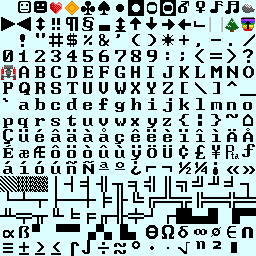
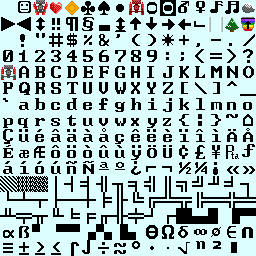
added sprites for flying and crashing

Changed region(s): [[0.5, 0.0, 0.5625, 0.0625], [0.125, 0.0, 0.1875, 0.0625]]

diff --git a/game.py b/game.py
@@ -48,10 +48,13 @@ class Ski(Game):
     TRACKS = chr(29)
     TREE = chr(30)
     JUMP = chr(31)
+    FLY = chr(2)
+    CRASH = chr(8)
 
     def __init__(self, random):
         self.random = random
         self.running = True
+        self.colliding = False
         self.flying = 0 # set to some value and decrement (0 == on ground)
         self.hp = 3
         self.player_pos = [self.MAP_WIDTH / 2, self.MAP_HEIGHT - 4]
@@ -192,13 +195,17 @@ class Ski(Game):
         # shift the map
         self.shift_map()
         
+        self.colliding = False # reset colliding variable
+
         if self.flying == 0:
             # check for various types of collisions (good and bad)
             if self.map[(self.player_pos[0], self.player_pos[1])] == self.ROCK:
+                self.colliding = True
                 self.hp -= 2
                 self.msg_panel += [self.random.choice(list(set(self.ROBOT_CRASH_RESPONSES) - set(self.msg_panel.get_current_messages())))]
 
             elif self.map[(self.player_pos[0], self.player_pos[1])] == self.TREE:
+                self.colliding = True
                 self.hp -= 1
                 self.msg_panel += [self.random.choice(list(set(self.ROBOT_CRASH_RESPONSES) - set(self.msg_panel.get_current_messages())))]
             elif self.map[(self.player_pos[0], self.player_pos[1])] == self.HEART:
@@ -218,7 +225,13 @@ class Ski(Game):
 
 
         # draw player
-        self.map[(self.player_pos[0], self.player_pos[1])] = self.PLAYER
+        if self.flying < 1:
+            if self.colliding:
+                self.map[(self.player_pos[0], self.player_pos[1])] = self.CRASH
+            else:
+                self.map[(self.player_pos[0], self.player_pos[1])] = self.PLAYER
+        else:
+            self.map[(self.player_pos[0], self.player_pos[1])] = self.FLY
 
         # vars should be gotten at the end of handle_turn, because vars
         # affect the *next* turn...
